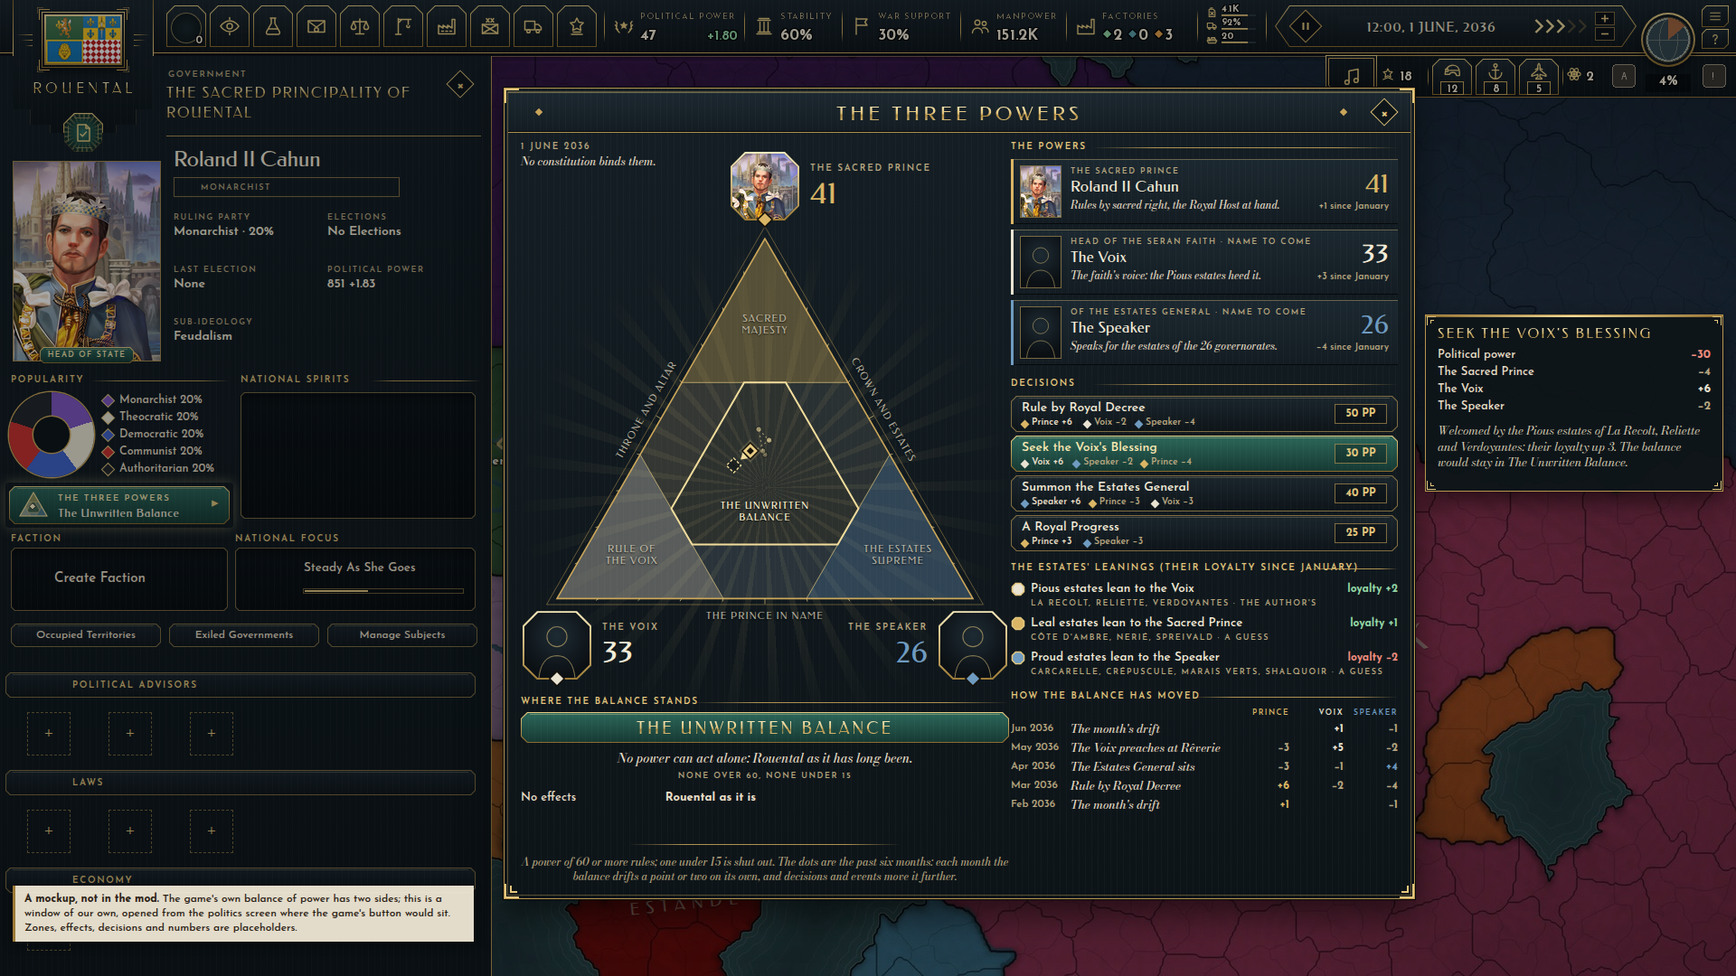
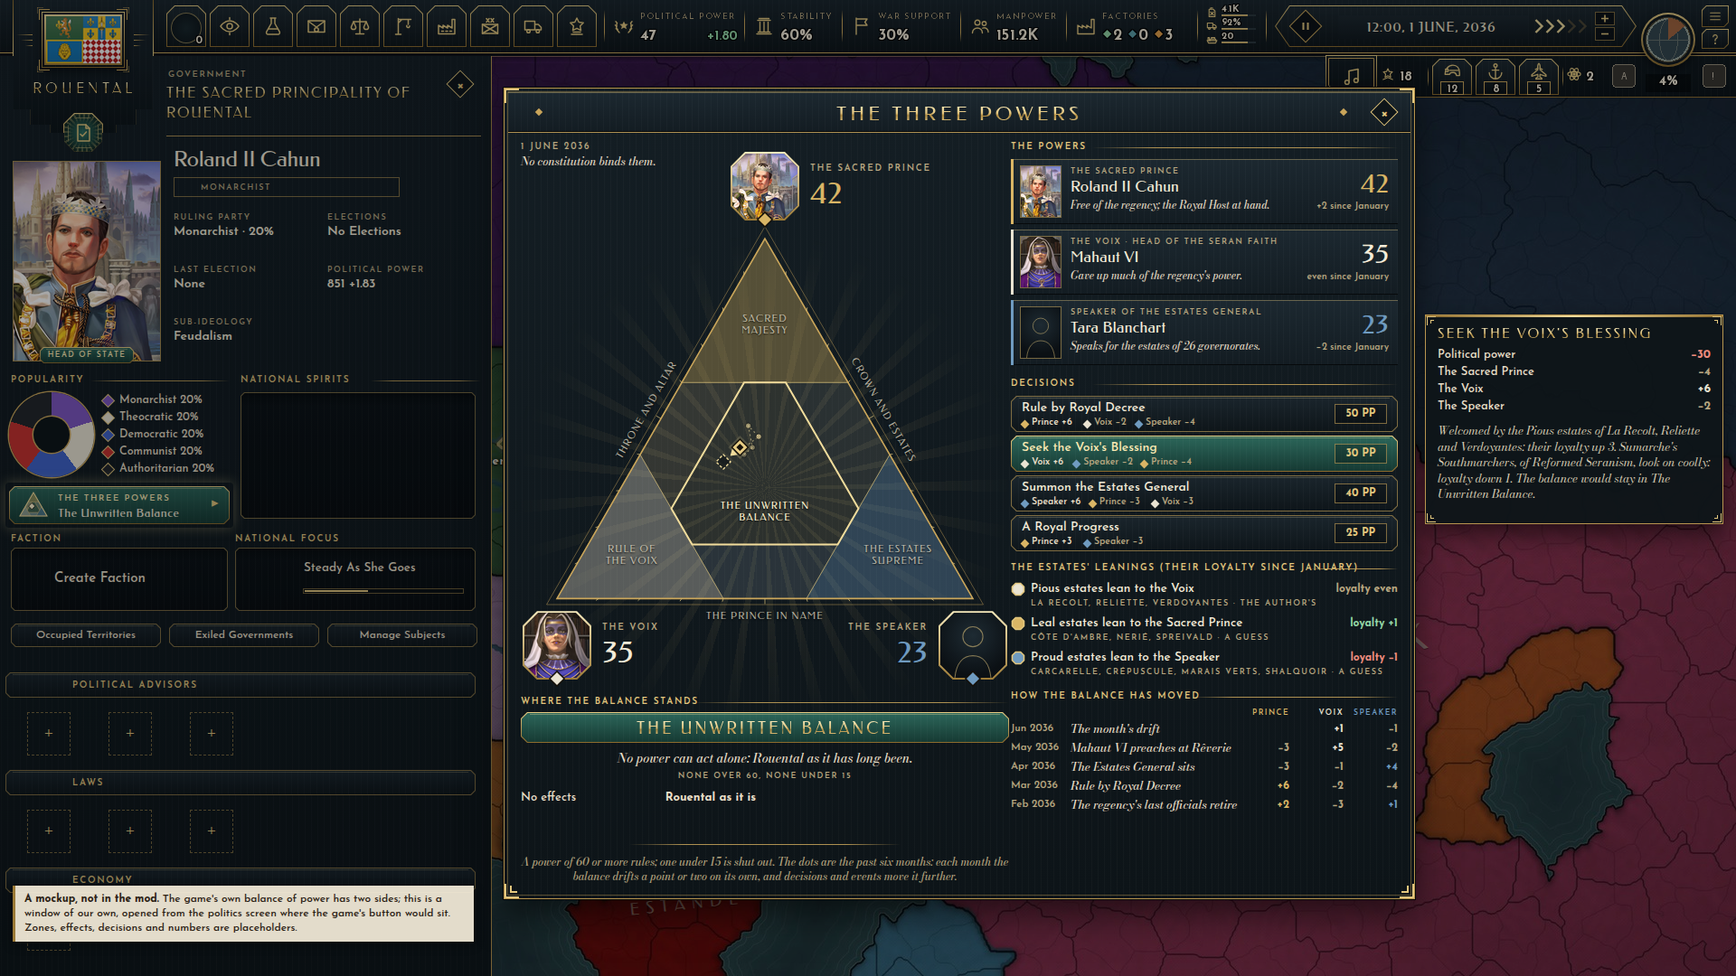
The three powers: the author's answers (Mahaut VI, Tara Blanchart, the start after the regency)
The zones kept; the start Prince 40, Voix 35, Speaker 25, Rouental just out of
the late Voix's long regency; the Voix is Mahaut VI (the mod's own character,
her portrait), the Speaker Tara Blanchart; Reformed Seranism respects the Voix
but isn't bound to her. Recorded, and the mockups redrawn with them.

Claude-Session: https://claude.ai/code/session_01TG83F4TvroUcXdi7eqNhMG

diff --git a/deco_ui/art/proposals/three_powers/make.py b/deco_ui/art/proposals/three_powers/make.py
@@ -1,16 +1,17 @@
 """The three powers of Rouental as a triangle: a mockup (2026-10-21, night; the author: "Rouental lacks a defined
 constitution, and power tends to fluctuate between the Sacred Prince, the Voix, and the Speaker of the Estates General",
 the Pious estates "will appreciate actions that push the balance of power towards the Voix"; then "Yes, give me a mockup
-of the triangle").
+of the triangle"; then, of the zones, "Yes, it looks good"; the start "Prince 40, Voix 35, Speaker 25", Rouental "just
+coming out of a long regency by the previous Voix"; the Voix Mahaut VI, the Speaker Tara Blanchart).
 
 The game's own balance of power has two sides (a bar: common/bop, interface/powerbalanceview.gui, opened by a button on
 the politics screen); three powers need a window of our own, opened from the same place. Three screens:
   three_powers_window.png      1 June 2036: the balance in the middle zone, its six months' trail; the decision Seek the
                                Voix's Blessing hovered (where it would move the balance, the Pious estates who welcome it)
-  three_powers_throne_altar.png 1 December 2036: the Speaker under 15, Throne and Altar; a zone hovered (Sacred Majesty)
+  three_powers_throne_altar.png 1 December 2036: the Speaker under 15, Throne and Altar
   three_powers_zones.png       the seven zones and what each would do (a sheet for the author)
-Not in the mod; the zones' names and effects, the decisions, every number and the Voix's and the Speaker's portraits are
-placeholders.
+Not in the mod; the zones' names and effects, the decisions, the events and every number but the start are placeholders;
+Tara Blanchart has no portrait yet.
 
     CHROMIUM_PATH=/opt/pw-browsers/chromium python3 make.py   (after a build: the governorates' estates come from it)
 """
@@ -129,22 +130,22 @@ DECISIONS = [
 ]
 # Which estates welcome a move toward which power (the Pious the author's; the Leal and the Proud Claude's guesses)
 LEANINGS = [("Pious", "voix", "the author's"), ("Leal", "prince", "a guess"), ("Proud", "speaker", "a guess")]
-START = (40, 30, 30)                      # 1 January 2036 (a guess)
+START = (40, 35, 25)                      # 1 January 2036 (the author's: just out of the late Voix's long regency)
 
 SCREENS = {
     "window": dict(date="1 June 2036", since="January",
-                   trail=[(40, 30, 30), (41, 30, 29), (47, 28, 25), (44, 27, 29), (41, 32, 27), (41, 33, 26)],
+                   trail=[(40, 35, 25), (42, 32, 26), (48, 30, 22), (45, 29, 26), (42, 34, 24), (42, 35, 23)],
                    log=[("Jun 2036", "The month's drift", {"voix": 1, "speaker": -1}),
-                        ("May 2036", "The Voix preaches at Rêverie", {"voix": 5, "prince": -3, "speaker": -2}),
+                        ("May 2036", "Mahaut VI preaches at Rêverie", {"voix": 5, "prince": -3, "speaker": -2}),
                         ("Apr 2036", "The Estates General sits", {"speaker": 4, "prince": -3, "voix": -1}),
                         ("Mar 2036", "Rule by Royal Decree", {"prince": 6, "voix": -2, "speaker": -4}),
-                        ("Feb 2036", "The month's drift", {"prince": 1, "speaker": -1})],
+                        ("Feb 2036", "The regency's last officials retire", {"prince": 2, "voix": -3, "speaker": 1})],
                    hover=1),
     "throne_altar": dict(date="1 December 2036", since="January",
-                         trail=[(41, 33, 26), (47, 31, 22), (47, 32, 21), (43, 38, 19), (49, 36, 15), (51, 39, 10),
-                                (51, 40, 9)],
+                         trail=[(42, 35, 23), (48, 33, 19), (48, 34, 18), (44, 40, 16), (50, 38, 12), (52, 41, 7),
+                                (52, 42, 6)],
                          log=[("Dec 2036", "The month's drift", {"voix": 1, "speaker": -1}),
-                              ("Nov 2036", "The Voix anoints the Prince anew", {"prince": 2, "voix": 3, "speaker": -5}),
+                              ("Nov 2036", "Mahaut VI anoints the Prince anew", {"prince": 2, "voix": 3, "speaker": -5}),
                               ("Oct 2036", "Rule by Royal Decree", {"prince": 6, "voix": -2, "speaker": -4}),
                               ("Sep 2036", "Seek the Voix's Blessing", {"voix": 6, "prince": -4, "speaker": -2}),
                               ("Aug 2036", "The month's drift", {"voix": 1, "speaker": -1})]),
@@ -264,7 +265,9 @@ def octo(cx, cy, r, inner):
 def power_picture(k, w, h):
     if k == "prince":
         return portrait("roland_cahun", 0, 0, w, h, "object-position:50% 18%")
-    return silhouette(0, 0, w, h)
+    if k == "voix":
+        return portrait("mahaut_vi", 0, 0, w, h)
+    return silhouette(0, 0, w, h)                         # Tara Blanchart has no portrait yet
 
 
 def corners_of(T, shares):
@@ -290,7 +293,7 @@ def corners_of(T, shares):
     return out
 
 
-def politics_panel(zone):
+def politics_panel(zone, shares):
     """the politics screen the window opens from (drawn simply; the Deco UI's own is fuller): the leader, the
     popularities, and in the place of the game's balance of power button, the three powers'"""
     PX, PY, PW = GM.PX, GM.PY, GM.PW
@@ -330,7 +333,7 @@ def politics_panel(zone):
         fill = rgba(z["col"], .55) if z["col"] else "rgba(241,220,156,.15)"
         mini += f'<polygon points="{pts_attr(pts)}" fill="{fill}" stroke="rgba(227,199,126,.5)" stroke-width=".6"/>'
     mini += f'<polygon points="{pts_attr((t.A, t.B, t.C))}" fill="none" stroke="#F1DC9C" stroke-width="1.1"/>'
-    sh = {"balance": (41, 33, 26), "throne": (51, 40, 9)}[zone]
+    sh = shares
     mx, my = t.at(*sh)
     mini += f'<path d="{diamond_path(mx, my, 3.6)}" fill="#FFF4D0" stroke="#16110A" stroke-width=".8"/>'
     out += f'<svg class="a" style="left:0;top:0;overflow:visible" width="1" height="1">{mini}</svg>'
@@ -358,9 +361,9 @@ def power_cards(y, shares, since):
     out = label(RX, y, "The powers", 10, GILT) + fade_rule(RX + 90, y + 5, RX + RW)
     y += 18
     lines = {
-        "prince": ("Roland II Cahun", "The Sacred Prince", "Rules by sacred right, the Royal Host at hand."),
-        "voix": ("The Voix", "Head of the Seran faith · name to come", "The faith's voice: the Pious estates heed it."),
-        "speaker": ("The Speaker", "Of the Estates General · name to come", "Speaks for the estates of the 26 governorates."),
+        "prince": ("Roland II Cahun", "The Sacred Prince", "Free of the regency; the Royal Host at hand."),
+        "voix": ("Mahaut VI", "The Voix · head of the Seran faith", "Gave up much of the regency's power."),
+        "speaker": ("Tara Blanchart", "Speaker of the Estates General", "Speaks for the estates of 26 governorates."),
     }
     for k, share, was in zip(ORDER, shares, START):
         col = POWERS[k][2]
@@ -371,7 +374,7 @@ def power_cards(y, shares, since):
         out += label(RX + 66, y + 9, role, 9, LABEL, w=290)
         out += text(RX + 66, y + 22, name, 17, CREAM, font="fed", track=.02)
         if share < 15:
-            line, lc = "Shut out: the estates who lean to it grow restive.", "#EE8C7E"
+            line, lc = "Shut out: the Proud estates grow restive.", "#EE8C7E"
         else:
             lc = CREAM2
         out += text(RX + 66, y + 46, line, 11.5, lc, w=262, font="bod", weight=500)
@@ -469,7 +472,7 @@ def window_screen(which):
     S = SCREENS[which]
     shares = S["trail"][-1]
     zone = zone_of(*shares)
-    body = backdrop("map", dim=.2) + politics_panel(zone)
+    body = backdrop("map", dim=.2) + politics_panel(zone, shares)
     body += box(1480, 17, 210, 26, "background:linear-gradient(180deg,rgb(29,39,46),rgb(17,25,30))")
     body += text(1480, 23, f"12:00, {S['date'].replace(' 2036', ', 2036')}", 15.5, "#EDE3C9", w=206, align="center",
                  font="fed", track=.05, caps=True)
@@ -507,8 +510,9 @@ def window_screen(which):
         G = RM.governorates()
         pious = [g for g, v in G.items() if v["attitude"][0] == "Pious"]
         after = zone_of(*ghost)
-        body += tooltip(X0 + WW + 10, Y0 + 252, 330, 196, name, rows,
+        body += tooltip(X0 + WW + 10, Y0 + 252, 330, 232, name, rows,
                         f"Welcomed by the Pious estates of {', '.join(pious[:-1])} and {pious[-1]}: their loyalty up 3. "
+                        f"Sumarche's Southmarchers, of Reformed Seranism, look on coolly: loyalty down 1. "
                         f"The balance would stay in {ZONES[after]['name']}.")
     if S.get("hover_zone"):
         z = ZONES[S["hover_zone"]]
@@ -526,14 +530,15 @@ def zones_sheet():
     body += window(16, 16, w - 32, h - 32)
     body += header(22, 22, w - 44, 44, "The Three Powers: the seven zones", 22)
     T = Tri(390, 210, 600)
-    body += triangle(T, None, [(40, 30, 30)], size=13)
-    body += corners_of(T, (40, 30, 30))
+    body += triangle(T, None, [START], size=13)
+    body += corners_of(T, START)
     body += label(60, 84, "Where the balance stands decides what Rouental gets", 10, LABEL)
     body += text(60, 100, "A power of 60 or more rules; a power under 15 is shut out; between them, the old balance.",
                  13, CREAM2, w=600, font="bod", weight=500)
-    body += label(60, 830, "The marker: 1 January 2036 (Prince 40, Voix 30, Speaker 30: a guess)", 9.5, LABEL)
-    body += text(60, 848, "Everything here is a placeholder for the author: the zones' names, where their lines fall, and "
-                 "what each does.", 12.5, CREAM2, w=640, font="bod", weight=500, lh=1.3)
+    body += label(60, 830, "The marker: 1 January 2036 (Prince 40, Voix 35, Speaker 25: the author's)", 9.5, LABEL)
+    body += text(60, 848, "Rouental is just out of the late Voix's long regency; Mahaut VI, the new Voix, gave much of its "
+                 "power up. The zones' names and effects are placeholders.", 12.5, CREAM2, w=640, font="bod", weight=500,
+                 lh=1.3)
     x, y = 770, 84
     for k in ("prince", "voix", "speaker", "throne", "crown", "in_name", "balance"):
         z = ZONES[k]

diff --git a/deco_ui/art/proposals/three_powers/README.md b/deco_ui/art/proposals/three_powers/README.md
@@ -2,11 +2,16 @@
 
 The author, 2026-10-21, night: "Rouental lacks a defined constitution, and power tends to fluctuate between the Sacred
 Prince, the Voix, and the Speaker of the Estates General", and Pious estates "will appreciate actions that push the
-balance of power towards the Voix"; then: "Yes, give me a mockup of the triangle."
+balance of power towards the Voix"; then: "Yes, give me a mockup of the triangle." On the first mockup: the zones "Yes,
+it looks good"; the start "Probably Prince 40, Voix 35, Speaker 25. Rouental is just coming out of a long regency by
+the previous Voix who had tried to cement her power, ended only once the previous Voix died and the new one assumed the
+office and willingly gave up a lot of the power"; the Voix is Mahaut VI ("the leader of Brillagne / theocratic
+Rouental", her portrait the mod's), the Speaker Tara Blanchart; the Southmarch's Reformed Seranists "respect the Voix
+as a spiritual leader, but don't consider them self bound to her", and she "isn't fond of them".
 
 | Picture | What it shows |
 |---|---|
-| `three_powers_window.png` | 1 June 2036. The politics screen with the three powers' button under the popularities, where the game's balance of power button sits, and its window open beside it. The triangle: the Prince at the top, the Voix bottom left, the Speaker bottom right, each corner's share; the marker in the middle zone with its six months' trail. Seek the Voix's Blessing hovered: the dashed arrow shows where it would move the balance, and its tooltip names the Pious estates who welcome it. Beside the triangle: the three powers, the decisions, the estates' leanings and the record of what moved the balance |
+| `three_powers_window.png` | 1 June 2036. The politics screen with the three powers' button under the popularities, where the game's balance of power button sits, and its window open beside it. The triangle: the Prince at the top, the Voix bottom left, the Speaker bottom right, each corner's share; the marker in the middle zone with its six months' trail. Seek the Voix's Blessing hovered: the dashed arrow shows where it would move the balance, and its tooltip names the Pious estates who welcome it and the Southmarchers who look on coolly. Beside the triangle: the three powers, the decisions, the estates' leanings and the record of what moved the balance |
 | `three_powers_throne_altar.png` | 1 December 2036, after two decrees, a blessing and an event: the Speaker under 15, so the zone is Throne and Altar (its effects under the triangle). The Speaker's card says the Speaker is shut out, and the Proud estates who lean to the Speaker have lost loyalty |
 | `three_powers_zones.png` | A sheet for the author: the seven zones, where each begins, and what each would do |
 
@@ -19,10 +24,11 @@ has long been, with no effects. Each zone carries its effects; each month the ba
 sides: Pious estates welcome a move toward the Voix (the author's), and by Claude's guess Leal estates toward the
 Prince and Proud estates toward the Speaker.
 
-**Placeholders, all Claude's:** the zones' names, where their lines fall (60 and 15), their effects; the four
-decisions, their costs and shifts; the events in the record; the start (Prince 40, Voix 30, Speaker 30); the Leal and
-Proud leanings; the Southmarchers losing loyalty under the Voix (Reformed Seranism, a guess); the estates' attitudes
-(the governorates' mockup's, `../governorates/realm.py`). The Voix and the Speaker have no names or portraits yet.
+**The author's:** the zones (kept), the start (Prince 40, Voix 35, Speaker 25), the holders (Roland II Cahun, Mahaut
+VI, Tara Blanchart), the Pious estates' leaning to the Voix, the Southmarchers' coolness toward her.
+**Placeholders, Claude's:** the zones' names, their effects; the four decisions, their costs and shifts; the events in
+the record (the regency's last officials retiring among them); the Leal and Proud leanings; the estates' attitudes (the
+governorates' mockup's, `../governorates/realm.py`). Tara Blanchart has no portrait yet.
 
 **In game** (as planned, nothing built): the game's own balance of power has two sides only (`common/bop`, a bar), so
 the triangle would be a scripted GUI (`common/scripted_guis`): a button attached to the politics screen

diff --git a/dist/open_questions.md b/dist/open_questions.md
@@ -16,7 +16,7 @@ Rouental's groups (28: applied, `docs/NATIONS.md`, 2026-10-21, later still). Wha
 | 25 | the tech tree: "I'm not really ready to start with the tech tree in earnest yet" | `docs/TECH_TREE_2036.md` |
 | 32 | the Vale of Reibonne's strategic region: with Hollier, Evriches and Seigne in South Montvallée and Selgrave, Lustiana and Lanzerac in North Montvallée, it holds only Guedelon and the island Brillagne, which don't touch (a region may be in two pieces, but the AI plans by regions). Guedelon into its neighbour's region (Côte d'Ambre's), Brillagne into the sea's nearest land region, or leave it? | |
 | 34 | the governorates (`deco_ui/art/proposals/governorates/`): which heading of your fief list is the Vairande's (Vair is listed under Conflans) and the Riverlanders' (Conflans, the largest, is Claude's guess); the Lyrién and the Lustianaise; how loyal the Northmarchers, Southmarchers, Piscans and Recoltaise are (0 in the mockups) | your notes |
-| 35 | the three powers' triangle (`deco_ui/art/proposals/three_powers/`, a mockup, not in the mod): do the seven zones suit (a power of 60 or more rules, one under 15 is shut out), and their names and effects (`three_powers_zones.png`)? Where Rouental stands on 1 January 2036 (Prince 40, Voix 30, Speaker 30 is a guess)? Do Leal estates lean to the Prince and Proud ones to the Speaker, as the Pious do to the Voix? Does Reformed Seranism (the Southmarch) answer to the Voix? The Voix's and the Speaker's names, when you have them | your notes |
+| 35 | the three powers' triangle (`deco_ui/art/proposals/three_powers/`, a mockup, not in the mod; the zones, the start, Mahaut VI and Tara Blanchart, Reformed Seranism answered 2026-10-21): the zones' names and effects (`three_powers_zones.png`) and the decisions are still Claude's; do Leal estates lean to the Prince and Proud ones to the Speaker, as the Pious do to the Voix? Build it into the mod? | your notes |
 | 33 | the groups' way back: "Be prepared for the posibility of returning to how it currently is though": the map before them is kept (`work/pre_groups_1021/`, and the commit before) until you say they stay | |
 
 New to look at:

diff --git a/docs/DECISIONS.md b/docs/DECISIONS.md
@@ -258,6 +258,18 @@ Moved out of `CLAUDE.md` word for word on 2026-10-17 (`CLAUDE.md` keeps one line
   - **The civil war**: governorates choosing sides may suit another, more traditional civil war path, not the
     communist one ("the complete collapse of traditional Rouentaise society, everyone against everyone. They're not
     too concerned about the arbitrary lines of the governorates": `docs/CIVIL_WAR_NOTES.md`).
+- **The three powers' triangle** (author, 2026-10-21, night; the mockup `deco_ui/art/proposals/three_powers/`, not in
+  the mod): the Sacred Prince, the Voix and the Speaker of the Estates General as one point in a triangle, opened from
+  the politics screen; its seven zones (a power of 60 or more rules, one under 15 is shut out, the Unwritten Balance
+  between): "Yes, it looks good". The names and effects of the zones, the decisions and the drift are still Claude's.
+  - **The start**: "Probably Prince 40, Voix 35, Speaker 25. Rouental is just coming out of a long regency by the
+    previous Voix who had tried to cement her power, ended only once the previous Voix died and the new one assumed
+    the office and willingly gave up a lot of the power."
+  - **The Voix is Mahaut VI** ("The Voix is the leader of Brillagne / theocratic Rouental": the mod's `ROU_mahaut_vi`
+    and `BRL_mahaut_vi`); **the Speaker is Tara Blanchart** (not yet a character in the mod).
+  - **Reformed Seranism** (the Southmarch): "They respect the Voix as a spiritual leader, but don't consider them self
+    bound to her. Likewise, the Voix isn't fond of them, as they break with many of the Faith's commandments." So the
+    Southmarchers lose loyalty as the Voix gains power (Rule of the Voix: −10; a move toward her: −1, in the mockup).
 - **The game's generic advisors and theorists are back** (author, 2026-10-21: "Sure, might as well bring back generic
   advisors and theorists"): vanilla's `history/general/generic_advisors.txt`, its Earth cases taken out, for every
   country (`docs/MAP_PIPELINE.md`, Vanilla content switched off).

diff --git a/docs/CONTENT.md b/docs/CONTENT.md
@@ -213,7 +213,12 @@ Aislada is the worked example of a built-out nation:
   Chatois and Oscarl as named; Conflans (151 fiefs, the most) Claude's guess for the Riverlanders; the Vairande's,
   the Lyrién and the Lustianaise open. Rouental's faith is Seranism, its head the Voix; power "tends to fluctuate
   between the Sacred Prince, the Voix, and the Speaker of the Estates General" (a triangle for it proposed:
-  `deco_ui/art/proposals/three_powers/`).
+  `deco_ui/art/proposals/three_powers/`). The Voix is **Mahaut VI** (the author, 2026-10-21, night: "The Voix is the
+  leader of Brillagne / theocratic Rouental"), the Speaker **Tara Blanchart**. Rouental "is just coming out of a long
+  regency by the previous Voix who had tried to cement her power, ended only once the previous Voix died and the new
+  one assumed the office and willingly gave up a lot of the power" (the start: Prince 40, Voix 35, Speaker 25). The
+  Southmarch's Reformed Seranists "respect the Voix as a spiritual leader, but don't consider them self bound to her.
+  Likewise, the Voix isn't fond of them, as they break with many of the Faith's commandments".
   The author will give each fief its title; per-fief levies wait for that. They give
   Rouental's name list noble surnames ("de Beaufort", "d'Aurifort") and its division
   names: "The Royal Host" (Garde Royale, Ost de <royal fief>) and "Vassal Levies"

diff --git a/CLAUDE.md b/CLAUDE.md
@@ -302,7 +302,7 @@ Where things stand; the history, date by date, is `docs/HISTORY.md` (add each da
 - **Waiting on the author:** (`dist/open_questions.md`, 2026-10-21, later still; keep it in step) everything they had
   answered or held is in the mod (2026-10-20, their go-ahead; 2026-10-21, the governorates' names, the generic
   advisors, the Kufi in gold, HMMLA's Royal Fiefs, Rouental's groups, Montvallée, Rêverie, the Royal Host, Kalaistan).
-  New: the three powers' triangle (`deco_ui/art/proposals/three_powers/`, a mockup); the Vale of Reibonne's region left with Guedelon and Brillagne apart; whether the groups stay (the way back:
+  New: the three powers' triangle (`deco_ui/art/proposals/three_powers/`, a mockup; the author's answers in, the zones' effects and whether to build it open); the Vale of Reibonne's region left with Guedelon and Brillagne apart; whether the groups stay (the way back:
   `work/pre_groups_1021/`, or the commit before them). Open: the strait crossings to add from the red ones
   (`dist/straits_map_red.png`); the old upload's tundra, jungle and desert marks ("I'll add those back in later");
   flags for Belekria's eight republics and state names (later, the author's); the region names (the drafts in the mod

diff --git a/docs/NATIONS.md b/docs/NATIONS.md
@@ -836,3 +836,12 @@ The author: "I think I'm gonna rename Placeholdaire back to Linterre for now." *
 Linterre", adjective Linterrois (its first name and adjective, 2026-09-30 to 2026-10-01; Placeholdros, then
 Placeholdaire from 2026-10-07); its unnamed states "Linterre N", its region "Linterre and Selto". Rouental's
 Southmarchers "have been greatly influenced by Linterre to the south".
+
+## 2026-10-21, night, last: the Voix and the Speaker
+
+The author named Rouental's three powers' holders: "The Voix is the leader of Brillagne / theocratic Rouental"
+(**Mahaut VI**, in the mod since 2026-10-02 as `ROU_mahaut_vi`, theocratic party leader and Accept Reality's ruler, and
+her copy `BRL_mahaut_vi` at the head of Brillagne; "Voix Mahaut (I can't remember if I gave you a [regnal] name
+previously)": Mahaut VI is that name), and the Speaker of the Estates General is **Tara Blanchart** (not a character in
+the mod yet: the three powers are a mockup, `deco_ui/art/proposals/three_powers/`). The previous Voix held a long
+regency and "had tried to cement her power"; Mahaut VI "willingly gave up a lot of the power".

diff --git a/docs/HISTORY.md b/docs/HISTORY.md
@@ -10,6 +10,10 @@ states and countries came next.
 
 ## Newest first
 
+- 2026-10-21, night, the very last (the author's answers on the triangle): the zones kept ("Yes, it looks good"); the
+  start Prince 40, Voix 35, Speaker 25, after the late Voix's long regency; the Voix **Mahaut VI** (the mod's own),
+  the Speaker **Tara Blanchart**; Reformed Seranism respects the Voix but isn't bound to her. Recorded
+  (`docs/DECISIONS.md`, `docs/CONTENT.md`, `docs/NATIONS.md`) and the mockups redrawn with them.
 - 2026-10-21, night, last (the author: "Yes, give me a mockup of the triangle"): **the three powers as a triangle**
   (`deco_ui/art/proposals/three_powers/`, not in the mod): the Sacred Prince, the Voix and the Speaker of the Estates
   General as one point in a triangle, opened from the politics screen where the game's balance of power button sits;
